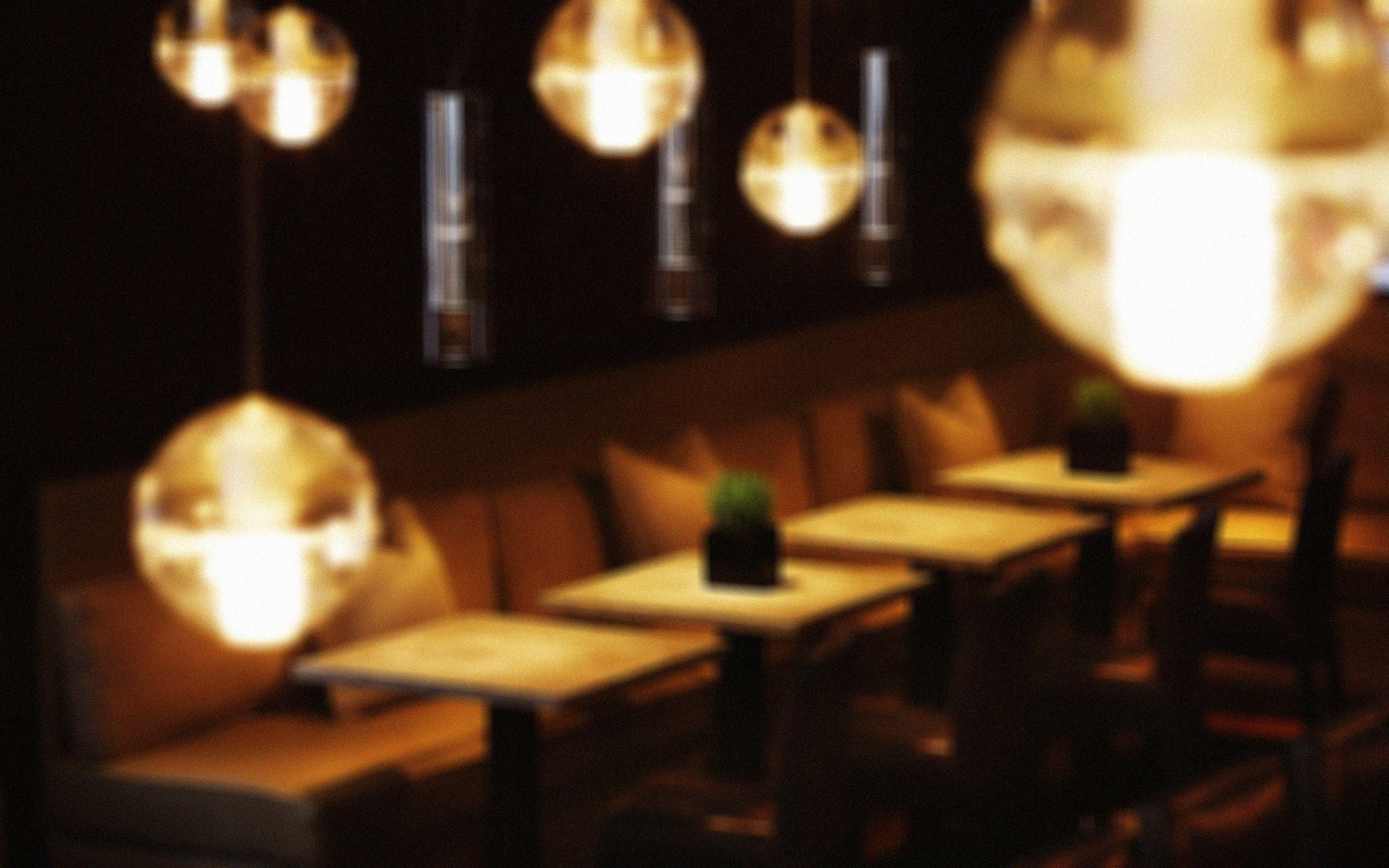
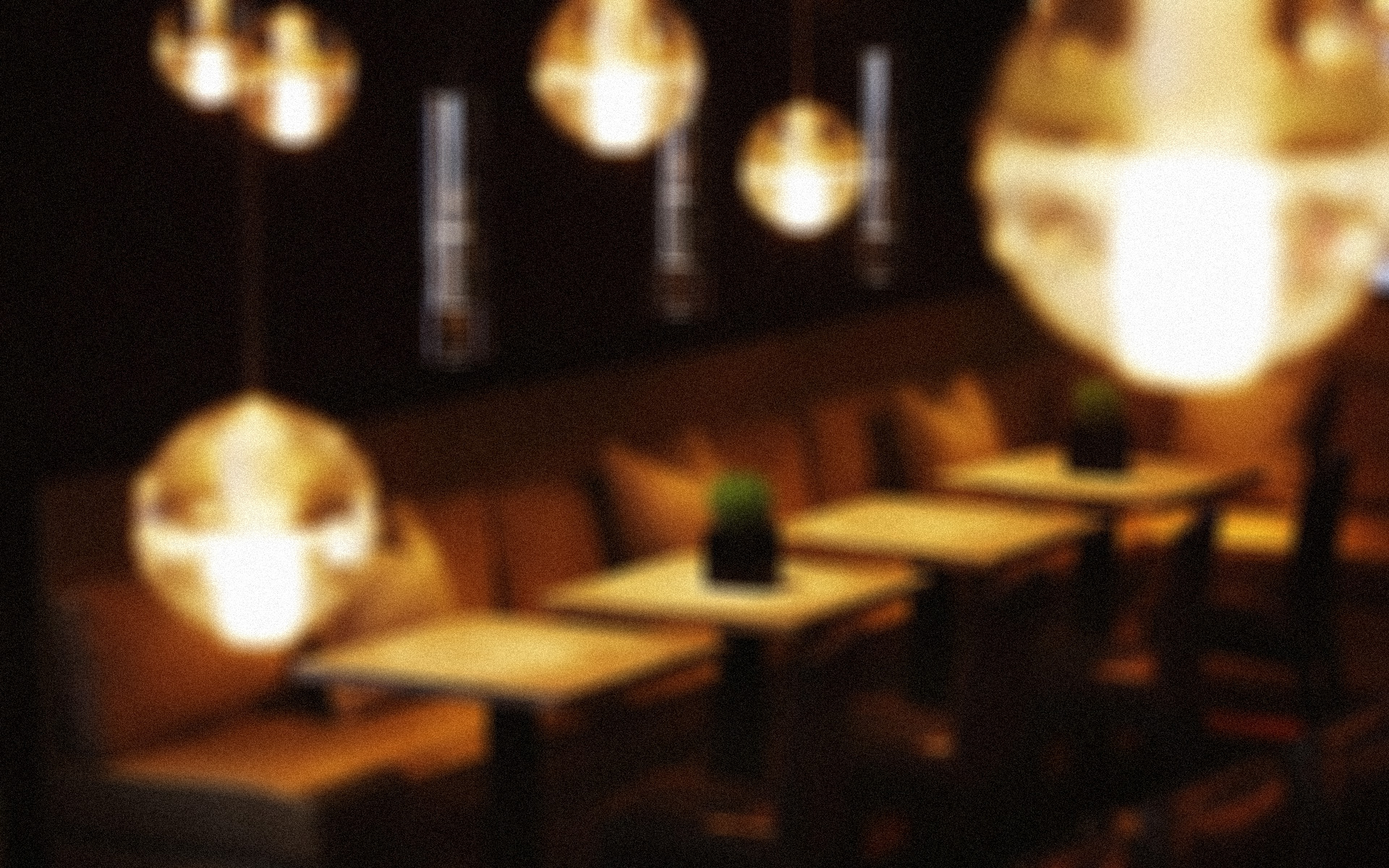
changed signup & restlist

diff --git a/css/rest_list.css b/css/rest_list.css
@@ -13,7 +13,7 @@ body {
     width : 100%;
 }
 .headerbg {
-    background-image: url("../images/header/1.jpg");
+    background-image: url("../images/header/bg2.jpg");
     background-repeat: no-repeat;
     background-size: cover;
     background-attachment: fixed, scroll;
@@ -101,26 +101,14 @@ body {
 
 /*---------------------------------------------------------------------------*/
 .formx {
-    margin-top: 5px;
-    text-align: center;
-    font-family: "Roboto", sans-serif;
-    font-style: normal;
-    font-size: 20px;
-    background:rgba(20, 20, 20, 0.7);
-    background-image: url("../images/header/1b.jpg");
-    background-repeat: no-repeat;
-    background-size: cover;
-    background-attachment: fixed, scroll;
-    height:auto;
-    width:500px;
-	box-shadow: 0px 5px 20px 2px rgba(0, 0, 0, 0.8);
-  	transition: box-shadow 0.15s ease-in-out;
-}
-.formx:hover{
-	box-shadow: 0px 15px 50px 5px rgba(0, 0, 0, 0.8);
-}
-.formx:active{
-	box-shadow: 0px 5px 10px 1px rgba(0, 0, 0, 0.8);
+  margin-top: 5px;
+  text-align: center;
+  font-family: "Roboto", sans-serif;
+  font-style: normal;
+  font-size: 20px;
+  background:rgba(20, 20, 20, 0.7);
+  height:auto;
+  width:500px;
 }
 
 label {

diff --git a/rest_list.php b/rest_list.php
@@ -2,31 +2,54 @@
 <html>
 <head>
     <title>Restaurants | Gaurmet</title>
+    <link type="text/css" rel="stylesheet" href="css/rest_list.css" />
 </head>
 <body>
 
+
+    <div class="header">
+      <div class="header_top" >
+        <div class="left_buttons">
+          <a href="./food_list.php" class="header_hover" >Cuisines</a>
+          <a href="./rest_list.php">Restaurant</a>
+        </div>
+        <div class="right_buttons">
+          <?php
+            if (isset($_SESSION['u_id'])) {
+              echo '<a href="./logout.php">Log Out</a>';
+              echo '<a href="./user.php">'.$_SESSION["u_id"].'</a>';
+
+            }
+            else {
+              echo '<a href="./signup.php">Signup</a>';
+              echo '<a href="./index.php#login">Login</a>';
+            }
+          ?>
+        </div>
+      </div>
+    </div>
+    <div class="headerbg"></div>
+<div class="bodyx">
 <?php
-include("PhpMysqlConnectivity.php");
-$result=mysqli_query($link,"SELECT DISTINCT a.name,a.address,a.mobile_no,a.star,a.city,a.veg_nonveg,a.open_time,a.close_time FROM restaurant a WHERE  a.city='jabalpur' AND CAST(CURRENT_TIME() AS time) BETWEEN a.open_time AND a.close_time ORDER BY a.star DESC;");
-echo '<table>';
-echo '<th>Name</th><th>Address</th><th>Mobile No</th><th>Star</th><th>City</th><th>Veg/NonVeg</th><th>Open Time</th><th>Close Time</th>';
-
-while($row = mysqli_fetch_array($result))
-{
-    echo '<tr>';
-    echo '<td>'.$row["name"].'</td>';
-    echo '<td>'.$row["address"].'</td>';
-    echo '<td>'.$row["mobile_no"].'</td>';
-    echo '<td>'.$row["star"].'</td>';
-    echo '<td>'.$row["city"].'</td>';
-    echo '<td>'.$row["veg_nonveg"].'</td>';
-    echo '<td>'.$row["open_time"].'</td>';
-    echo '<td>'.$row["close_time"].'</td>';
-    echo '</tr>';
-
-}
-echo '</table>';
+    include("PhpMysqlConnectivity.php");
+    $result=mysqli_query($link,"SELECT DISTINCT a.name,a.address,a.mobile_no,a.star,a.city,a.veg_nonveg,a.open_time,a.close_time FROM restaurant a WHERE  a.city='jabalpur' AND CAST(CURRENT_TIME() AS time) BETWEEN a.open_time AND a.close_time ORDER BY a.star DESC;");
+    echo '<table>';
+    echo '<th>Name</th><th>Address</th><th>Mobile No</th><th>Star</th><th>City</th><th>Veg/NonVeg</th><th>Open Time</th><th>Close Time</th>';
+    while($row = mysqli_fetch_array($result))
+    {
+        echo '<tr>';
+        echo '<td>'.$row["name"].'</td>';
+        echo '<td>'.$row["address"].'</td>';
+        echo '<td>'.$row["mobile_no"].'</td>';
+        echo '<td>'.$row["star"].'</td>';
+        echo '<td>'.$row["city"].'</td>';
+        echo '<td>'.$row["veg_nonveg"].'</td>';
+        echo '<td>'.$row["open_time"].'</td>';
+        echo '<td>'.$row["close_time"].'</td>';
+        echo '</tr>';
+    }
+    echo '</table>';
 ?>
-
+</div>
  </body>
  </html>
